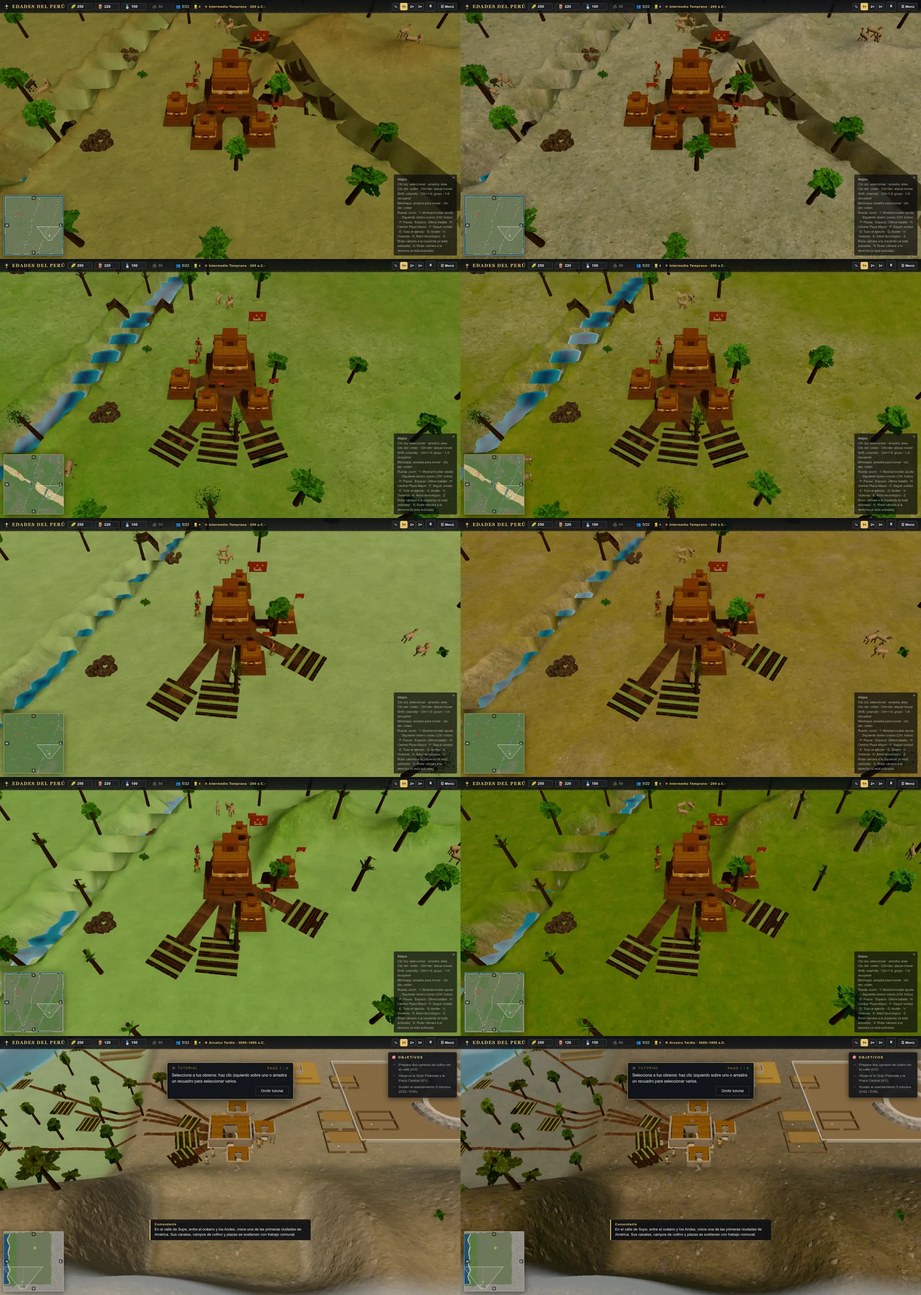
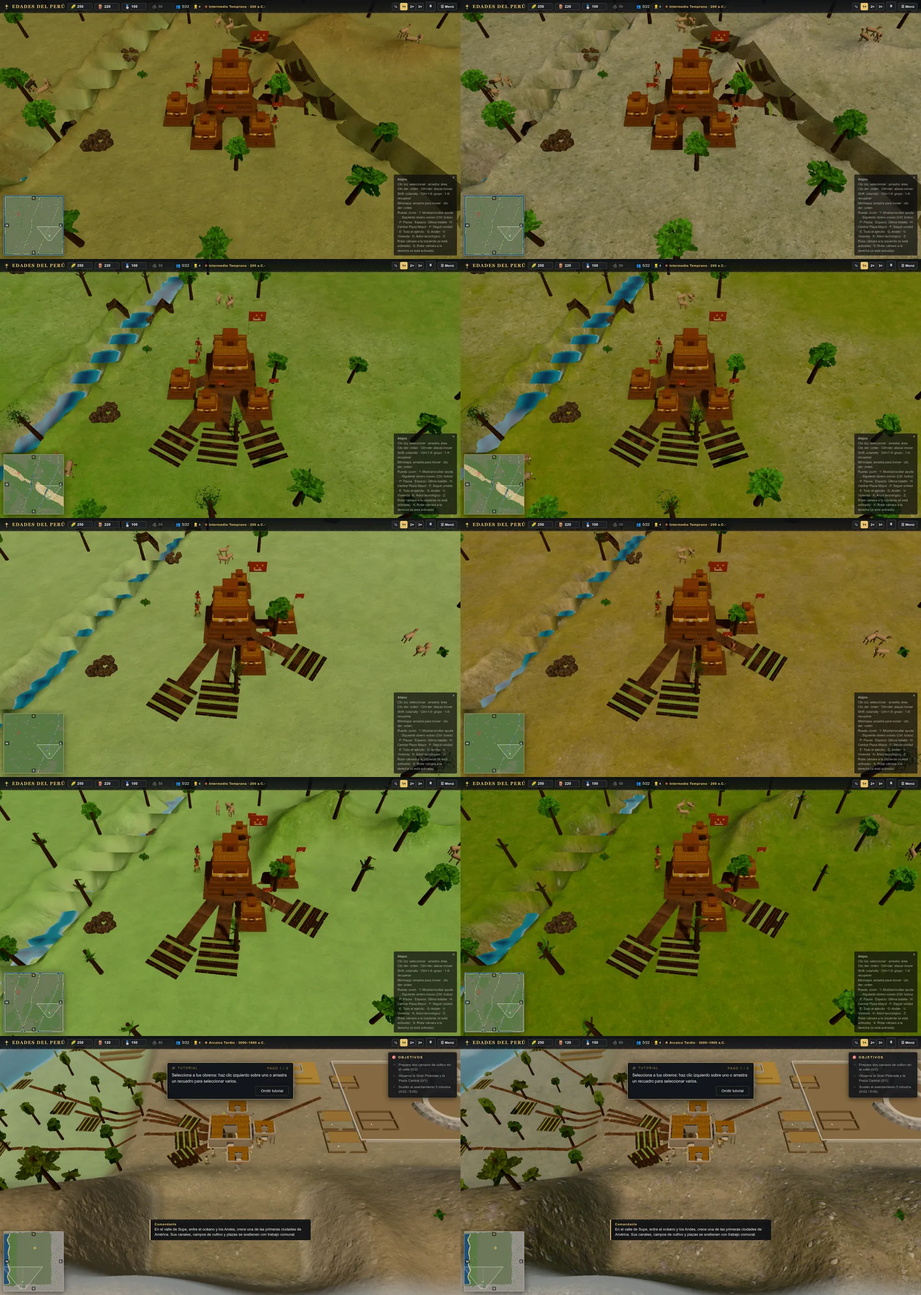
fix(terrain): prioritize summit bands and clarify palette data (#303)

diff --git a/src/rendering/Terrain.ts b/src/rendering/Terrain.ts
@@ -2,11 +2,15 @@ import * as THREE from 'three';
 import { getGroundTextures, GroundTextures } from './Textures';
 import { getGroundPBR } from './Biomes';
 import { buildTerrainSplat, TERRAIN_SPLAT_SIZE, type TerrainSplat } from './terrainSplat';
-import { smoothstep } from '../util/math';
 import { TerrainData } from '../sim/TerrainData';
 import { FOW_DIM_GLSL } from './fowGlsl';
 import type { GroundPbrSlot, HistoricalMapProfile } from '../model/defs/profiles';
-import { TERRAIN_PALETTES, type TerrainPalette, type TerrainPaletteId } from '../model/defs/terrainPalettes';
+import {
+  TERRAIN_PALETTES,
+  terrainBandWeights,
+  type TerrainPalette,
+  type TerrainPaletteId,
+} from '../model/defs/terrainPalettes';
 import type { TerrainLayout } from '../model/defs/terrainLayout';
 import type { AuthoredSiteDef, SiteTerrainStyle } from '../model/defs/sites';
 
@@ -378,7 +382,7 @@ export class Terrain {
         rockTint: { value: paletteColor(this.palette.materials.rock) },
         snowTint: { value: paletteColor(this.palette.materials.snow) },
         textureMix: { value: this.palette.textureMix },
-        groundTint: { value: new THREE.Color(this.profile.groundTint ?? '#ffffff') },
+        groundTint: { value: paletteColor(this.profile.groundTint ?? '#ffffff') },
         fogCapBoost: { value: this.palette.fogCapBoost ?? 0 },
         suppressSnow: { value: this.suppressSnow ? 1 : 0 },
         valleyHaze: { value: this.valleyHaze ? 1 : 0 },
@@ -735,33 +739,12 @@ ${FOW_DIM_GLSL}
   }
 
   private biomeColor(h: number, slope: number, waterLevel: number): THREE.Color {
-    const valley = 1 - smoothstep(waterLevel + 1, waterLevel + 7, h);
-    const loma = smoothstep(4.5, 12, h);
-    const summit = this.suppressSnow
-      ? 0
-      : smoothstep(this.profile.elevation.snowLine - 6, this.profile.elevation.snowLine, h);
-    const slopeBand = smoothstep(1.8, 4.5, slope);
-
-    let wValley = valley * (1 - slopeBand) * (1 - loma);
-    let wSlope = slopeBand;
-    let wLoma = loma * (1 - summit);
-    let wSummit = summit;
-    const sum = wValley + wSlope + wLoma + wSummit;
-    if (sum > 0) {
-      const inv = 1 / sum;
-      wValley *= inv;
-      wSlope *= inv;
-      wLoma *= inv;
-      wSummit *= inv;
-    } else {
-      wValley = 1;
-    }
-
+    const w = terrainBandWeights(h, slope, waterLevel, this.profile.elevation.snowLine, this.suppressSnow);
     const c = this.bandColors;
     _cBase.setRGB(
-      c.valley.r * wValley + c.slope.r * wSlope + c.loma.r * wLoma + c.summit.r * wSummit,
-      c.valley.g * wValley + c.slope.g * wSlope + c.loma.g * wLoma + c.summit.g * wSummit,
-      c.valley.b * wValley + c.slope.b * wSlope + c.loma.b * wLoma + c.summit.b * wSummit,
+      c.valley.r * w.valley + c.slope.r * w.slope + c.loma.r * w.loma + c.summit.r * w.summit,
+      c.valley.g * w.valley + c.slope.g * w.slope + c.loma.g * w.loma + c.summit.g * w.summit,
+      c.valley.b * w.valley + c.slope.b * w.slope + c.loma.b * w.loma + c.summit.b * w.summit,
     );
     return _cBase;
   }

diff --git a/src/model/defs/terrainPalettes.ts b/src/model/defs/terrainPalettes.ts
@@ -1,7 +1,57 @@
+import { smoothstep } from '../../util/math';
+
 /** Data-driven terrain palettes: material tints and macro height bands. */
 
 export type TerrainPaletteId =
   'north_coast' | 'central_coast' | 'south_coast' | 'andean_valley' | 'high_andes' | 'altiplano' | 'amazon' | 'caral';
+
+/** Shared landform thresholds (world units; slope is the raw height delta used by the mesh). */
+export const TERRAIN_BAND_RANGES = {
+  valleyOffset: 1,
+  valleyRange: 6,
+  lomaStart: 4.5,
+  lomaEnd: 12,
+  slopeStart: 1.8,
+  slopeEnd: 4.5,
+} as const;
+
+export interface TerrainBandWeights {
+  valley: number;
+  slope: number;
+  loma: number;
+  summit: number;
+}
+
+/** Normalized band weights; summit wins over slope so snowy peaks stay snowy. */
+export function terrainBandWeights(
+  height: number,
+  slope: number,
+  waterLevel: number,
+  snowLine: number,
+  suppressSnow = false,
+): TerrainBandWeights {
+  const r = TERRAIN_BAND_RANGES;
+  const valley = 1 - smoothstep(waterLevel + r.valleyOffset, waterLevel + r.valleyOffset + r.valleyRange, height);
+  const loma = smoothstep(r.lomaStart, r.lomaEnd, height);
+  const summit = suppressSnow ? 0 : smoothstep(snowLine - 6, snowLine, height);
+  const slopeBand = smoothstep(r.slopeStart, r.slopeEnd, slope);
+
+  let wSummit = summit;
+  let wSlope = slopeBand * (1 - summit);
+  let wLoma = loma * (1 - summit) * (1 - slopeBand);
+  let wValley = valley * (1 - loma) * (1 - slopeBand) * (1 - summit);
+  const sum = wValley + wSlope + wLoma + wSummit;
+  if (sum > 0) {
+    const inv = 1 / sum;
+    wValley *= inv;
+    wSlope *= inv;
+    wLoma *= inv;
+    wSummit *= inv;
+  } else {
+    wValley = 1;
+  }
+  return { valley: wValley, slope: wSlope, loma: wLoma, summit: wSummit };
+}
 
 export interface TerrainPalette {
   /** Multipliers applied to the packed material albedo (near-white preserves detail). */

diff --git a/tests/terrain-palettes.test.ts b/tests/terrain-palettes.test.ts
@@ -1,12 +1,11 @@
 import { describe, expect, it } from 'vitest';
-import * as THREE from 'three';
 import { MAP_PROFILES } from '../src/model/defs/profiles';
 import { AUTHORED_SITES } from '../src/model/defs/sites';
-import { TERRAIN_PALETTES } from '../src/model/defs/terrainPalettes';
+import { TERRAIN_PALETTES, terrainBandWeights } from '../src/model/defs/terrainPalettes';
 
 function luminance(hex: string): number {
-  const c = new THREE.Color(hex);
-  return 0.2126 * c.r + 0.7152 * c.g + 0.0722 * c.b;
+  const value = parseInt(hex.replace('#', ''), 16);
+  return (0.2126 * ((value >> 16) & 255) + 0.7152 * ((value >> 8) & 255) + 0.0722 * (value & 255)) / 255;
 }
 
 describe('terrain palettes', () => {
@@ -25,6 +24,15 @@ describe('terrain palettes', () => {
       expect(palette.textureMix).toBeGreaterThan(0);
       expect(palette.textureMix).toBeLessThanOrEqual(1);
     }
+  });
+
+  it('keeps summit weights on steep high ground', () => {
+    const peak = terrainBandWeights(20, 6, 2.2, 15);
+    expect(peak.summit).toBeCloseTo(1, 5);
+    expect(peak.valley + peak.slope + peak.loma + peak.summit).toBeCloseTo(1, 5);
+    const valley = terrainBandWeights(4, 0, 2.2, 15);
+    expect(valley.valley).toBeGreaterThan(valley.slope);
+    expect(valley.valley + valley.slope + valley.loma + valley.summit).toBeCloseTo(1, 5);
   });
 
   it('separates the four playable map types in luminance, not only hue', () => {

diff --git a/docs/design/visual-language.md b/docs/design/visual-language.md
@@ -198,8 +198,9 @@ work.
 - **Civilization palettes** live in `src/model/defs/civs.ts`
   (`primary`/`secondary`/`accent`/`concrete`) and flow into models as **vertex
   colours** (baked by `bakeVertexAO`), not as separate materials.
-- **Region colour** is a combination of the terrain shader (aridity, vegetation,
-  temperature) and `atmosphere` (`skyTint`, `sunWarmth`, `fogDensity`).
+- **Region colour** is the terrain palette (`src/model/defs/terrainPalettes.ts`:
+  material tints plus valley/slope/loma/summit bands) and `atmosphere`
+  (`skyTint`, `sunWarmth`, `fogDensity`).
 - **Period colour grade** (`src/model/defs/grades.ts`) is a display-referred look
   applied after tone mapping (`PERIOD_GRADES` per `HistoricalPeriod`, blended with
   the region's temperature/aridity by `resolveColorGrade`): warm dry coast, cold
